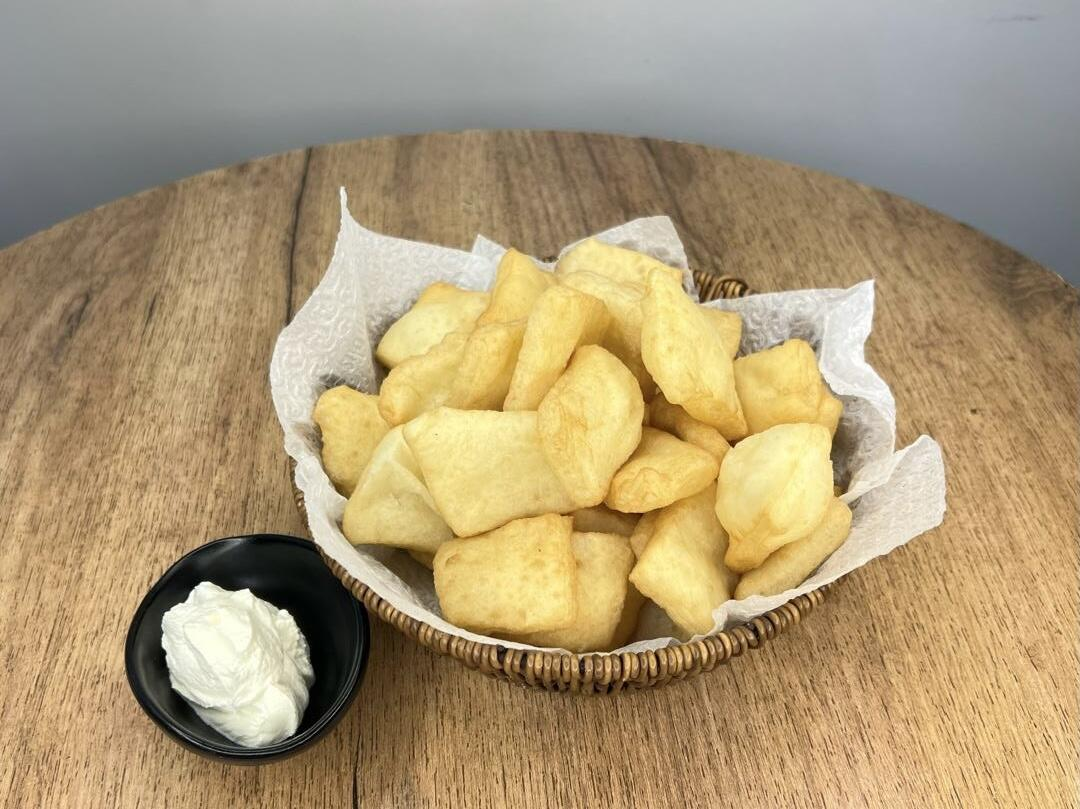
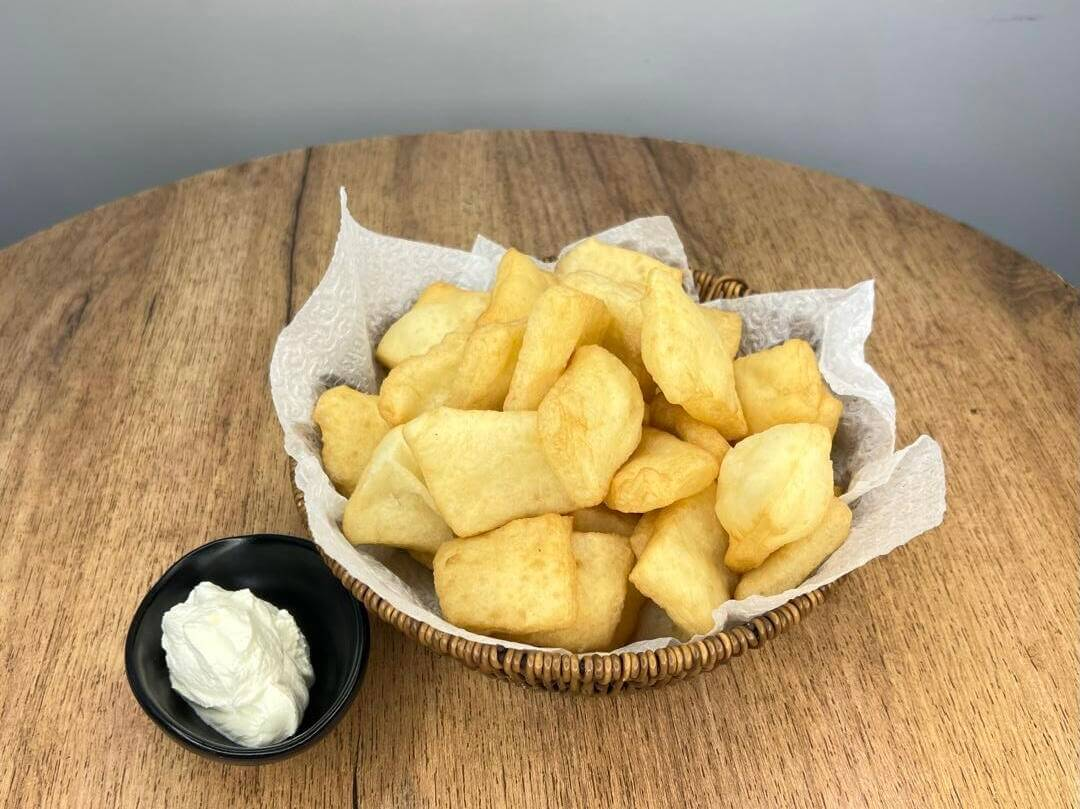
sdfjhslgjkdfgdfg

diff --git a/Меню/compress.js b/Меню/compress.js
@@ -1,0 +1,49 @@
+const sharp = require('sharp');
+const fs = require('fs');
+const path = require('path');
+
+const QUALITY = 75; // 0-100, можешь менять
+const folder = __dirname;
+
+const files = fs.readdirSync(folder).filter(f => f.endsWith('.webp'));
+
+if (files.length === 0) {
+  console.log('WebP файлы не найдены');
+  process.exit();
+}
+
+console.log(`Найдено файлов: ${files.length}\n`);
+
+let totalBefore = 0;
+let totalAfter = 0;
+
+(async () => {
+  for (const file of files) {
+    const inputPath = path.join(folder, file);
+    const tmpPath = inputPath + '.tmp';
+
+    const sizeBefore = fs.statSync(inputPath).size;
+    totalBefore += sizeBefore;
+
+    await sharp(inputPath)
+      .webp({ quality: QUALITY })
+      .toFile(tmpPath);
+
+    const sizeAfter = fs.statSync(tmpPath).size;
+
+    // Заменяем только если стало меньше
+    if (sizeAfter < sizeBefore) {
+      fs.renameSync(tmpPath, inputPath);
+      totalAfter += sizeAfter;
+      const saved = ((1 - sizeAfter / sizeBefore) * 100).toFixed(1);
+      console.log(`✓ ${file}: ${(sizeBefore/1024).toFixed(1)}KB → ${(sizeAfter/1024).toFixed(1)}KB (-${saved}%)`);
+    } else {
+      fs.unlinkSync(tmpPath);
+      totalAfter += sizeBefore;
+      console.log(`~ ${file}: пропущен (уже оптимален)`);
+    }
+  }
+
+  const saved = ((1 - totalAfter / totalBefore) * 100).toFixed(1);
+  console.log(`\n✅ Итого: ${(totalBefore/1024/1024).toFixed(2)}MB → ${(totalAfter/1024/1024).toFixed(2)}MB (сэкономлено ${saved}%)`);
+})();
